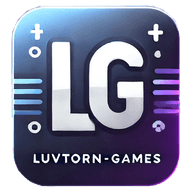
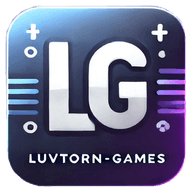
Updates

diff --git a/sw.js b/sw.js
@@ -1,1 +1,1 @@
-if(!self.define){let e,i={};const s=(s,n)=>(s=new URL(s+".js",n).href,i[s]||new Promise((i=>{if("document"in self){const e=document.createElement("script");e.src=s,e.onload=i,document.head.appendChild(e)}else e=s,importScripts(s),i()})).then((()=>{let e=i[s];if(!e)throw new Error(`Module ${s} didn’t register its module`);return e})));self.define=(n,r)=>{const d=e||("document"in self?document.currentScript.src:"")||location.href;if(i[d])return;let c={};const a=e=>s(e,d),o={module:{uri:d},exports:c,require:a};i[d]=Promise.all(n.map((e=>o[e]||a(e)))).then((e=>(r(...e),c)))}}define(["./workbox-3e911b1d"],(function(e){"use strict";self.addEventListener("message",(e=>{e.data&&"SKIP_WAITING"===e.data.type&&self.skipWaiting()})),e.clientsClaim(),e.precacheAndRoute([{url:"192x192.png",revision:"61ab43951141b63b0511f116895771c5"},{url:"1ship.svg",revision:"b31ed990925e6e9165ec09abbb0c692f"},{url:"256x256.png",revision:"d5c2aa508838c1d97896e3b823218c63"},{url:"257x257.png",revision:"5649307b860746a0611b82da9d558c97"},{url:"2ship.svg",revision:"02bc37da2ef82b3d2a46c7d8f10d4d46"},{url:"3ship.svg",revision:"24dfe83b4179df9dc02ecc015e88cff1"},{url:"48x48.png",revision:"6720cbf4ecba493b819e0b772bf89fc0"},{url:"4ship.svg",revision:"fb03147fd75479ca7e1f901853bf8708"},{url:"512x512.png",revision:"3af01866ddec0395bd87162dd18147c6"},{url:"apple-touch-icon-180x180.png",revision:"622b20bdcb24222de7d76df9716bb4fc"},{url:"assets/index-CjimnOas.css",revision:null},{url:"assets/index-DAUL0tB_.js",revision:null},{url:"favicon.ico",revision:"dcd53b6c0df7f90551462c735742523d"},{url:"favicon.png",revision:"52329515264e4aef86ef11d417977532"},{url:"Flag_of_Russia.svg",revision:"7a8b3a7d8204983d246e6edbcbe21413"},{url:"index.html",revision:"3c076eba4099dca2c383f699e1f1a6d8"},{url:"maskable-icon-512x512.png",revision:"ee97ba38c07dced9492f0cb6aa243321"},{url:"pl.svg",revision:"aa3ad8a9daa8ec9d6018955708fe5737"},{url:"pwa-192x192.png",revision:"47064d8104a61c32832395c30ca38016"},{url:"pwa-512x512.png",revision:"13d46a703d6216e7d57f7013f2a93c5c"},{url:"pwa-64x64.png",revision:"8162b539131dc75b499b48f296737a4d"},{url:"ua.svg",revision:"31e39f502bd68aa5673897f3aeaf6c2b"},{url:"usa.svg",revision:"4cdb75b07e35b223d2330c3789d5507c"},{url:"manifest.webmanifest",revision:"5ef7eb1d1b211297dba49b98e35dc9fa"}],{}),e.cleanupOutdatedCaches(),e.registerRoute(new e.NavigationRoute(e.createHandlerBoundToURL("index.html")))}));
+if(!self.define){let e,i={};const s=(s,n)=>(s=new URL(s+".js",n).href,i[s]||new Promise((i=>{if("document"in self){const e=document.createElement("script");e.src=s,e.onload=i,document.head.appendChild(e)}else e=s,importScripts(s),i()})).then((()=>{let e=i[s];if(!e)throw new Error(`Module ${s} didn’t register its module`);return e})));self.define=(n,r)=>{const c=e||("document"in self?document.currentScript.src:"")||location.href;if(i[c])return;let a={};const f=e=>s(e,c),b={module:{uri:c},exports:a,require:f};i[c]=Promise.all(n.map((e=>b[e]||f(e)))).then((e=>(r(...e),a)))}}define(["./workbox-3e911b1d"],(function(e){"use strict";self.addEventListener("message",(e=>{e.data&&"SKIP_WAITING"===e.data.type&&self.skipWaiting()})),e.clientsClaim(),e.precacheAndRoute([{url:"192x192.png",revision:"61ab43951141b63b0511f116895771c5"},{url:"1ship.svg",revision:"b31ed990925e6e9165ec09abbb0c692f"},{url:"256x256.png",revision:"d5c2aa508838c1d97896e3b823218c63"},{url:"257x257.png",revision:"5649307b860746a0611b82da9d558c97"},{url:"2ship.svg",revision:"02bc37da2ef82b3d2a46c7d8f10d4d46"},{url:"3ship.svg",revision:"24dfe83b4179df9dc02ecc015e88cff1"},{url:"48x48.png",revision:"6720cbf4ecba493b819e0b772bf89fc0"},{url:"4ship.svg",revision:"fb03147fd75479ca7e1f901853bf8708"},{url:"512x512.png",revision:"3af01866ddec0395bd87162dd18147c6"},{url:"72x72.png",revision:"9a5133a7b02fb9f4af6f468c57ff39f7"},{url:"apple-touch-icon-180x180.png",revision:"83948f7444cbac1ad5fe956b907b99df"},{url:"assets/index-CjimnOas.css",revision:null},{url:"assets/index-DAUL0tB_.js",revision:null},{url:"favicon.ico",revision:"37621577774bfc533afb14149ef9cbec"},{url:"favicon.png",revision:"52329515264e4aef86ef11d417977532"},{url:"Flag_of_Russia.svg",revision:"7a8b3a7d8204983d246e6edbcbe21413"},{url:"index.html",revision:"3c076eba4099dca2c383f699e1f1a6d8"},{url:"maskable-icon-512x512.png",revision:"6b37c5f9083973f292aa93d5e01926cf"},{url:"pl.svg",revision:"aa3ad8a9daa8ec9d6018955708fe5737"},{url:"pwa-192x192.png",revision:"db24ad827174b295ca3bebacd6ceabbe"},{url:"pwa-512x512.png",revision:"4e9131fb8b8ee16fb6a4357ceac5fecc"},{url:"pwa-64x64.png",revision:"280249b039cbc7b5632ef29b3a8288cb"},{url:"ua.svg",revision:"31e39f502bd68aa5673897f3aeaf6c2b"},{url:"usa.svg",revision:"4cdb75b07e35b223d2330c3789d5507c"},{url:"manifest.webmanifest",revision:"9c6dd97f7a99b9a205c71b4f085666e7"}],{}),e.cleanupOutdatedCaches(),e.registerRoute(new e.NavigationRoute(e.createHandlerBoundToURL("index.html")))}));
